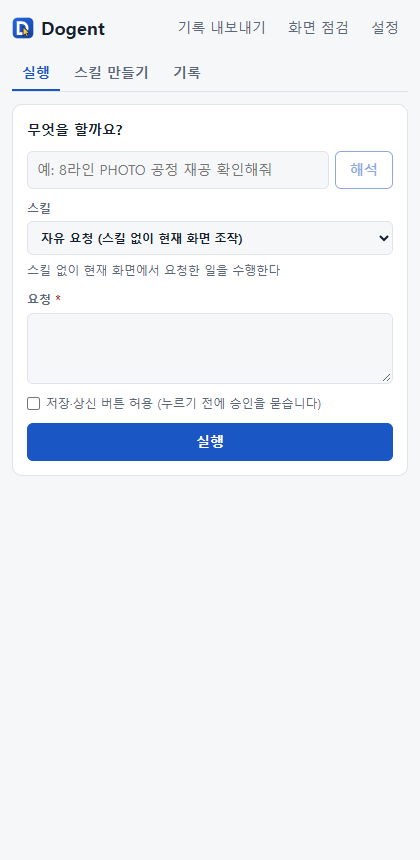
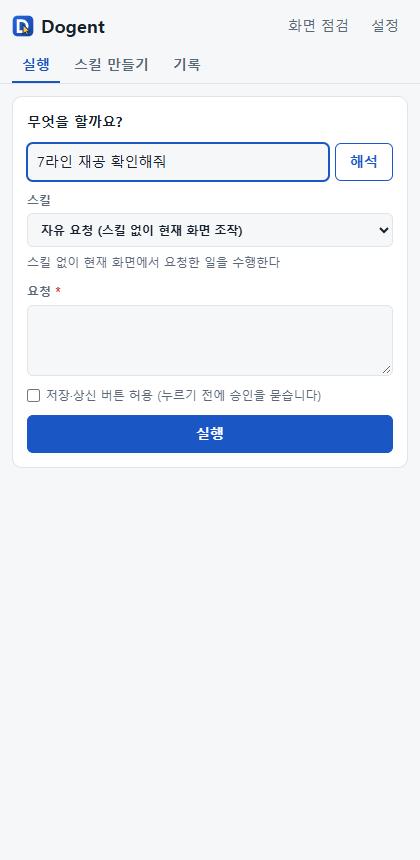
[docs] 따라하기 안내서에 터미널 클라이언트 통합 (F장), 녹화 끼워 넣기·실행 → 스킬, 새 화면 배치 반영
- docs/08-hands-on-guide.html
  - F. 터미널 클라이언트: 구성, 빌드(home/company), 확장과 잇기, run, 말로 시키기, 승인 창 상신,
    자유 요청 → 개인 스킬, 스킬 폴더·설정·옵션. 터미널 출력은 실제 실행에서 캡처
  - Electron 화면판은 아직 없고 다음 단계임을 명시
  - C장: 녹화 중에 끼워 넣기(이름·목적·말로 단계·화면 정리), 말로 시켜 잘 된 일을 스킬로
  - 사내 연결: 클라이언트도 같은 환경 파일로 빌드, config llm.userId
  - 새 패널 배치(위쪽 막대, 설정 화면), 조작할 사이트는 설정에서, 기록 내보내기 위치, 문제 해결에 클라이언트 항목
  - 새 캡처: 02, 03(다시), 26 클라이언트 연결, 27 녹화 끼워 넣기, 28·29 실행 → 스킬, 30 클라이언트 승인 창
- 클라이언트: 확장이 2초 안에 붙으면 "연결되기를 기다립니다" 안내를 띄우지 않음
- 확장: 클라이언트 연결 상태 표시가 버튼 옆에서 찌그러지던 것 고침

diff --git a/client/src/main.ts b/client/src/main.ts
@@ -101,7 +101,8 @@ class Client {
   async connect(): Promise<Bridge> {
     if (this.bridge?.connected()) return this.bridge;
     this.bridge ??= await openBridge({ port: this.cfg.bridgePort });
-    if (!this.bridge.connected()) {
+    // 확장은 보통 1초 안에 붙는다. 그보다 오래 걸릴 때만 무엇을 할지 알려 준다.
+    if (!(await this.bridge.waitForExtension(2000))) {
       this.term.print('브라우저의 Dogent 확장이 연결되기를 기다립니다…');
       this.term.print('  사이드 패널 → 설정 → 클라이언트 연결을 켜고 토큰을 넣으세요 (토큰: dogent token).');
       if (!(await this.bridge.waitForExtension(this.flags.waitSec * 1000))) {

diff --git a/entrypoints/sidepanel/style.css b/entrypoints/sidepanel/style.css
@@ -737,3 +737,11 @@ textarea.code {
 .card-head h2 {
   margin-bottom: 10px;
 }
+/* 클라이언트 연결 상태: 버튼 옆에서 늘어나지 않게 */
+#bridge-status {
+  align-self: center;
+  font-size: 12px;
+  font-weight: 600;
+  padding: 2px 10px;
+  white-space: nowrap;
+}
